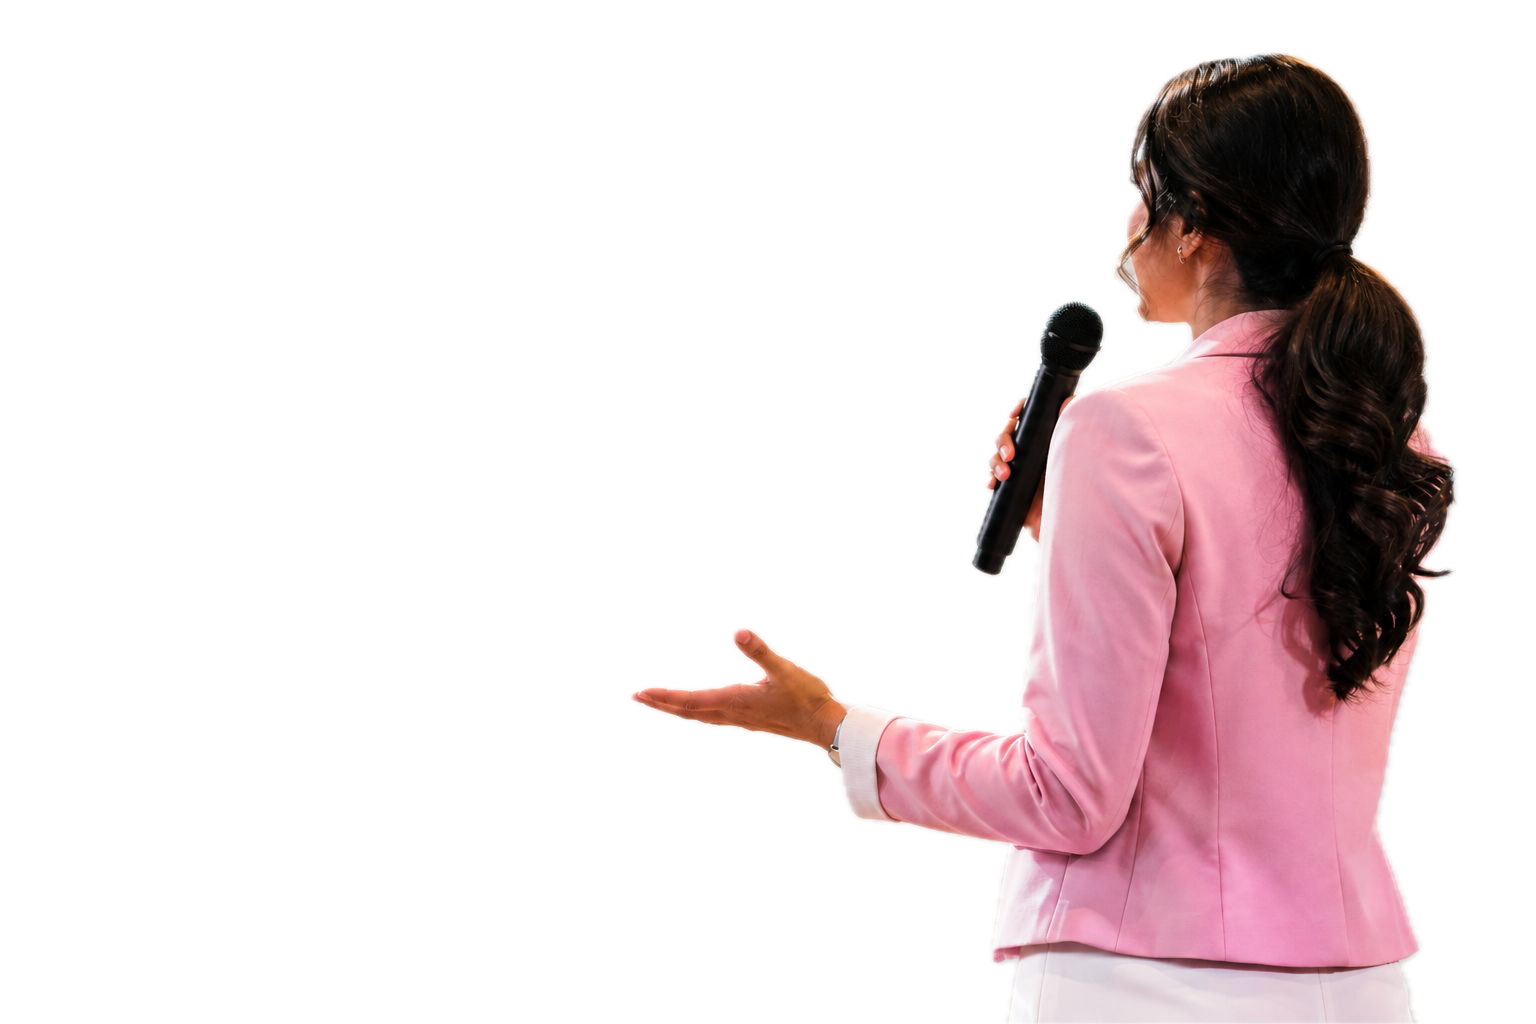
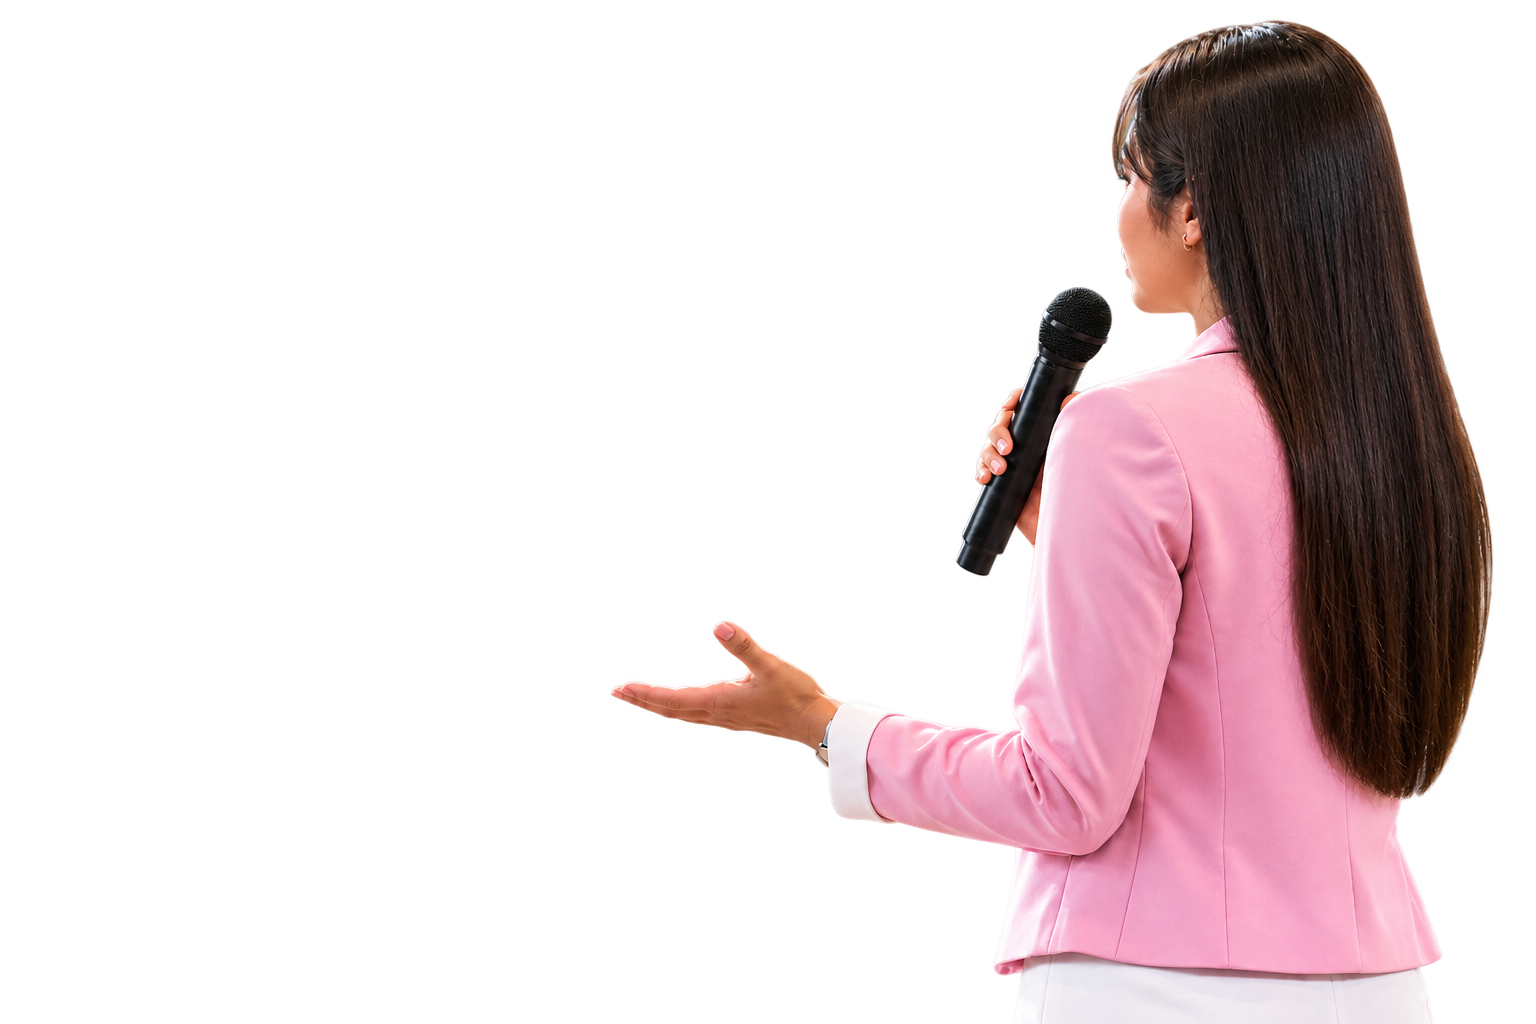
Home and about us images changed

Changed region(s): [[0.4062, 0.0, 1.0, 1.0], [0.7188, 0.4062, 0.75, 0.4688]]

diff --git a/src/pages/AboutUsPage.tsx b/src/pages/AboutUsPage.tsx
@@ -33,7 +33,7 @@ const AboutUsPage: React.FC = () => {
         </div>
 
         {/* Team Photo */}
-        <div className="absolute top-36 bottom-0 left-0 w-full h-[75%] md:h-[95%] z-10 flex items-end justify-center pointer-events-none">
+        <div className="absolute top-55 bottom-0 left-0 w-full h-[75%] md:h-[95%] z-10 flex items-end justify-center pointer-events-none">
           <img 
             src={AboutUsHero} 
             alt="Team Collaboration" 
